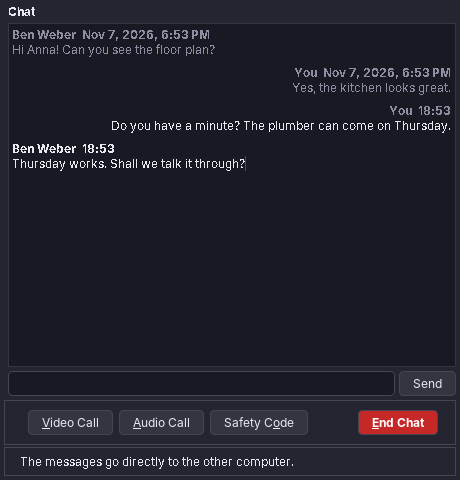
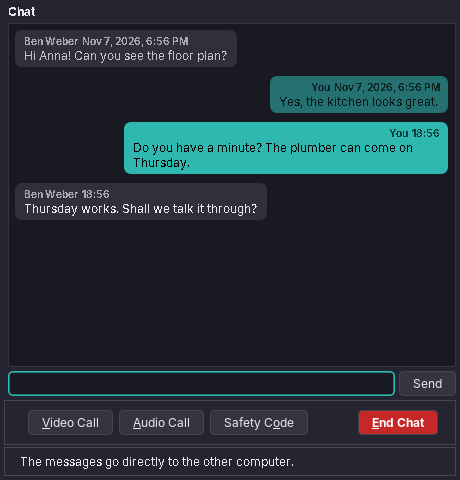
feat: chat lines as rounded bubbles in the accent colour
Mine on the right in the theme's accent (selection) colour, theirs on the
left in a shade of the field colour; kept lines from earlier calls
lighter and with the date. The bubble is as wide as its text, at most
three quarters of the chat.

Claude-Session: https://claude.ai/code/session_017Pd6NYUZ8z2gAjpLkJrfhb

diff --git a/src/main/java/eu/amadeos/apps/call/ui/call/ChatPanel.java b/src/main/java/eu/amadeos/apps/call/ui/call/ChatPanel.java
@@ -3,43 +3,58 @@ package eu.amadeos.apps.call.ui.call;
 import eu.amadeos.apps.call.domain.ChatLine;
 import eu.amadeos.commons.i18n.Messages;
 import eu.amadeos.commons.swing.AmadeUI;
+import eu.amadeos.commons.theme.DesktopTheme;
 
 import javax.swing.BorderFactory;
+import javax.swing.Box;
+import javax.swing.BoxLayout;
 import javax.swing.JButton;
+import javax.swing.JComponent;
 import javax.swing.JLabel;
 import javax.swing.JPanel;
 import javax.swing.JScrollPane;
+import javax.swing.JTextArea;
 import javax.swing.JTextField;
-import javax.swing.JTextPane;
-import javax.swing.text.BadLocationException;
-import javax.swing.text.SimpleAttributeSet;
-import javax.swing.text.StyleConstants;
-import javax.swing.text.StyledDocument;
+import javax.swing.JViewport;
+import javax.swing.Scrollable;
+import javax.swing.SwingConstants;
+import javax.swing.SwingUtilities;
 import java.awt.BorderLayout;
+import java.awt.Color;
+import java.awt.Component;
 import java.awt.Dimension;
 import java.awt.Font;
+import java.awt.FontMetrics;
+import java.awt.Graphics;
+import java.awt.Graphics2D;
+import java.awt.Insets;
+import java.awt.Rectangle;
+import java.awt.RenderingHints;
 import java.time.ZoneId;
 import java.time.format.DateTimeFormatter;
 import java.time.format.FormatStyle;
 import java.util.ArrayList;
 import java.util.List;
 import java.util.function.Consumer;
+import java.util.stream.Collectors;
 
-/** The chat beside the picture: the lines of both sides and a field to write. */
+/**
+ * The chat: the lines of both sides as rounded bubbles, like in a messenger (mine on the right in the accent
+ * colour of the theme, theirs on the left), and a field to write. Kept lines from earlier calls come first, dimmed
+ * and with the date.
+ */
 final class ChatPanel extends JPanel {
     private static final DateTimeFormatter TIME = DateTimeFormatter.ofPattern("HH:mm");
     private static final DateTimeFormatter DAY_AND_TIME =
             DateTimeFormatter.ofLocalizedDateTime(FormatStyle.MEDIUM, FormatStyle.SHORT);
 
-    private final JTextPane lines = new JTextPane();
+    private final Lines lines = new Lines();
+    private final JScrollPane scroll;
     private final JTextField input = new JTextField();
     private final Messages msg;
     private final String peer;
-    private int count;
-    /** Lines in the text so far, earlier and of this call. */
-    private int written;
-    private int historyLines;
     private final List<ChatLine> current = new ArrayList<>();
+    private List<ChatLine> history = List.of();
 
     ChatPanel(Messages msg, String peer, Consumer<String> send) {
         super(new BorderLayout(0, 4));
@@ -47,10 +62,12 @@ final class ChatPanel extends JPanel {
         this.peer = peer;
         setName("chat");
         setBorder(BorderFactory.createEmptyBorder(0, 4, 0, 0));
-        lines.setEditable(false);
         lines.setName("chat.lines");
-        JScrollPane scroll = new JScrollPane(lines);
-        scroll.setPreferredSize(new Dimension(Math.round(240 * AmadeUI.fontScale()), 200));
+        scroll = new JScrollPane(lines, JScrollPane.VERTICAL_SCROLLBAR_AS_NEEDED,
+                JScrollPane.HORIZONTAL_SCROLLBAR_NEVER);
+        scroll.setPreferredSize(new Dimension(Math.round(260 * AmadeUI.fontScale()), 200));
+        scroll.getVerticalScrollBar().setUnitIncrement(Math.round(16 * AmadeUI.fontScale()));
+        scroll.getViewport().setBackground(AmadeUI.theme().fieldBackground());
         JLabel title = new JLabel(msg.get("chat.title"));
         title.setFont(title.getFont().deriveFont(Font.BOLD));
         add(title, BorderLayout.NORTH);
@@ -74,59 +91,31 @@ final class ChatPanel extends JPanel {
 
     void add(ChatLine line) {
         current.add(line);
-        write(line, false);
-        count++;
-        lines.setCaretPosition(lines.getStyledDocument().getLength());
+        lines.add(bubble(line, false));
+        refresh();
     }
 
     /** The kept chat from earlier calls, dimmed and with the date, above the lines of this call. */
     void setHistory(List<ChatLine> earlier) {
-        StyledDocument doc = lines.getStyledDocument();
-        try {
-            doc.remove(0, doc.getLength());
-        } catch (BadLocationException e) {
-            throw new IllegalStateException(e);
-        }
-        written = 0;
-        for (ChatLine line : earlier) write(line, true);
-        historyLines = earlier.size();
-        for (ChatLine line : current) write(line, false);
-        lines.setCaretPosition(doc.getLength());
+        history = List.copyOf(earlier);
+        lines.removeAll();
+        for (ChatLine line : history) lines.add(bubble(line, true));
+        for (ChatLine line : current) lines.add(bubble(line, false));
+        refresh();
     }
 
-    private void write(ChatLine line, boolean earlier) {
-        StyledDocument doc = lines.getStyledDocument();
-        SimpleAttributeSet head = new SimpleAttributeSet();
-        StyleConstants.setBold(head, true);
-        StyleConstants.setForeground(head, line.mine() || earlier ? AmadeUI.theme().textInactive() : lines.getForeground());
-        SimpleAttributeSet body = new SimpleAttributeSet();
-        if (earlier) StyleConstants.setForeground(body, AmadeUI.theme().textInactive());
-        // Like a messenger: my lines on the right, theirs on the left, with room between messages.
-        SimpleAttributeSet paragraph = new SimpleAttributeSet();
-        StyleConstants.setAlignment(paragraph, line.mine() ? StyleConstants.ALIGN_RIGHT : StyleConstants.ALIGN_LEFT);
-        float gap = 8 * AmadeUI.fontScale();
-        float side = 36 * AmadeUI.fontScale();
-        StyleConstants.setLeftIndent(paragraph, line.mine() ? side : 0);
-        StyleConstants.setRightIndent(paragraph, line.mine() ? 0 : side);
-        try {
-            String who = line.mine() ? msg.get("chat.me") : peer;
-            DateTimeFormatter when = earlier ? DAY_AND_TIME.withLocale(msg.locale()) : TIME;
-            boolean first = written++ == 0;
-            if (!first) doc.insertString(doc.getLength(), "\n", null);
-            int start = doc.getLength();
-            doc.insertString(start, who + "  " + when.format(line.at().atZone(ZoneId.systemDefault())) + "\n", head);
-            doc.insertString(doc.getLength(), line.text(), body);
-            SimpleAttributeSet top = new SimpleAttributeSet(paragraph);
-            StyleConstants.setSpaceAbove(top, first ? 0 : gap);
-            doc.setParagraphAttributes(start, 1, top, false);
-            doc.setParagraphAttributes(start + 1, doc.getLength() - start - 1, paragraph, false);
-        } catch (BadLocationException e) {
-            throw new IllegalStateException(e);
-        }
+    private void refresh() {
+        lines.revalidate();
+        lines.repaint();
+        // To the newest line once the layout knows the height.
+        SwingUtilities.invokeLater(() -> lines.scrollRectToVisible(new Rectangle(0, lines.getHeight() - 1, 1, 1)));
     }
 
-    int historyLines() {
-        return historyLines;
+    private JComponent bubble(ChatLine line, boolean earlier) {
+        String who = line.mine() ? msg.get("chat.me") : peer;
+        DateTimeFormatter when = earlier ? DAY_AND_TIME.withLocale(msg.locale()) : TIME;
+        return new Bubble(who + "  " + when.format(line.at().atZone(ZoneId.systemDefault())), line.text(),
+                line.mine(), earlier);
     }
 
     void focusInput() {
@@ -134,14 +123,185 @@ final class ChatPanel extends JPanel {
     }
 
     int lineCount() {
-        return count;
+        return current.size();
     }
 
+    int historyLines() {
+        return history.size();
+    }
+
+    /** All lines as plain text, earlier first, for tests. */
     String text() {
-        return lines.getText();
+        return java.util.stream.Stream.concat(history.stream(), current.stream()).map(ChatLine::text)
+                .collect(Collectors.joining("\n"));
     }
 
     JTextField input() {
         return input;
+    }
+
+    // ---------------------------------------------------------------- the list of bubbles
+
+    /** The bubbles from top to bottom, as wide as the visible part of the scroll pane. */
+    private final class Lines extends JPanel implements Scrollable {
+        Lines() {
+            setLayout(new BoxLayout(this, BoxLayout.Y_AXIS));
+            setBorder(BorderFactory.createEmptyBorder(6, 6, 6, 6));
+            setBackground(AmadeUI.theme().fieldBackground());
+        }
+
+        @Override
+        public Component add(Component c) {
+            if (getComponentCount() > 0) super.add(Box.createVerticalStrut(Math.round(8 * AmadeUI.fontScale())));
+            return super.add(c);
+        }
+
+        @Override
+        public Dimension getPreferredScrollableViewportSize() {
+            return getPreferredSize();
+        }
+
+        @Override
+        public int getScrollableUnitIncrement(Rectangle visible, int orientation, int direction) {
+            return Math.round(16 * AmadeUI.fontScale());
+        }
+
+        @Override
+        public int getScrollableBlockIncrement(Rectangle visible, int orientation, int direction) {
+            return visible.height - 16;
+        }
+
+        @Override
+        public boolean getScrollableTracksViewportWidth() {
+            return true;
+        }
+
+        @Override
+        public boolean getScrollableTracksViewportHeight() {
+            return getParent() instanceof JViewport v && getPreferredSize().height < v.getHeight();
+        }
+    }
+
+    /** One message: a rounded box with who and when on top and the text below, on its side of the chat. */
+    private final class Bubble extends JPanel {
+        private final JLabel head;
+        private final JTextArea text;
+        private final boolean mine;
+        private final boolean earlier;
+        private final Color fill;
+
+        Bubble(String headText, String body, boolean mine, boolean earlier) {
+            super(null);
+            this.mine = mine;
+            this.earlier = earlier;
+            setOpaque(false);
+            setName(mine ? "chat.mine" : "chat.theirs");
+            DesktopTheme t = AmadeUI.theme();
+            Color background = t.fieldBackground();
+            Color accent = t.selectionBackground();
+            Color foreground;
+            if (mine) {
+                fill = earlier ? mix(accent, background, 0.45f) : accent;
+                foreground = t.selectionText();
+            } else {
+                fill = t.isDark() ? mix(background, Color.WHITE, 0.10f) : mix(background, Color.BLACK, 0.07f);
+                foreground = t.fieldText();
+            }
+            Color dim = mix(foreground, fill, 0.35f);
+            head = new JLabel(headText);
+            head.setFont(head.getFont().deriveFont(Font.BOLD, head.getFont().getSize2D() * 0.85f));
+            head.setForeground(dim);
+            head.setHorizontalAlignment(mine ? SwingConstants.RIGHT : SwingConstants.LEFT);
+            text = new JTextArea(body);
+            text.setName("chat.text");
+            text.setEditable(false);
+            text.setLineWrap(true);
+            text.setWrapStyleWord(true);
+            text.setOpaque(false);
+            text.setBorder(null);
+            text.setFont(new JLabel().getFont());
+            text.setForeground(earlier ? mix(foreground, fill, 0.2f) : foreground);
+            text.setSelectedTextColor(foreground);
+            add(head);
+            add(text);
+        }
+
+        private Insets pad() {
+            int v = Math.round(5 * AmadeUI.fontScale());
+            int h = Math.round(9 * AmadeUI.fontScale());
+            return new Insets(v, h, v, h);
+        }
+
+        /** The width of the box: as wide as the text needs, at most three quarters of the chat. */
+        private int boxWidth(int available) {
+            Insets p = pad();
+            FontMetrics fm = text.getFontMetrics(text.getFont());
+            int widest = head.getPreferredSize().width;
+            for (String l : text.getText().split("\n", -1)) widest = Math.max(widest, fm.stringWidth(l) + 2);
+            int max = Math.max(Math.round(80 * AmadeUI.fontScale()), available * 3 / 4);
+            return Math.min(widest + p.left + p.right, max);
+        }
+
+        private int boxHeight(int width) {
+            Insets p = pad();
+            int inner = width - p.left - p.right;
+            text.setSize(inner, Short.MAX_VALUE);
+            return p.top + head.getPreferredSize().height + text.getPreferredSize().height + p.bottom;
+        }
+
+        private int available() {
+            java.awt.Container parent = getParent();
+            int w = parent == null ? 0 : parent.getWidth() - parent.getInsets().left - parent.getInsets().right;
+            return w > 0 ? w : Math.round(260 * AmadeUI.fontScale());
+        }
+
+        @Override
+        public Dimension getPreferredSize() {
+            int width = available();
+            return new Dimension(width, boxHeight(boxWidth(width)));
+        }
+
+        @Override
+        public Dimension getMaximumSize() {
+            return new Dimension(Integer.MAX_VALUE, getPreferredSize().height);
+        }
+
+        @Override
+        public float getAlignmentX() {
+            return LEFT_ALIGNMENT;
+        }
+
+        private Rectangle box() {
+            int w = boxWidth(getWidth());
+            return new Rectangle(mine ? getWidth() - w : 0, 0, w, boxHeight(w));
+        }
+
+        @Override
+        public void doLayout() {
+            Rectangle b = box();
+            Insets p = pad();
+            int headHeight = head.getPreferredSize().height;
+            head.setBounds(b.x + p.left, p.top, b.width - p.left - p.right, headHeight);
+            text.setBounds(b.x + p.left, p.top + headHeight, b.width - p.left - p.right,
+                    b.height - p.top - p.bottom - headHeight);
+        }
+
+        @Override
+        protected void paintComponent(Graphics g) {
+            Graphics2D g2 = (Graphics2D) g.create();
+            g2.setRenderingHint(RenderingHints.KEY_ANTIALIASING, RenderingHints.VALUE_ANTIALIAS_ON);
+            Rectangle b = box();
+            int arc = Math.round(14 * AmadeUI.fontScale());
+            g2.setColor(fill);
+            g2.fillRoundRect(b.x, b.y, b.width - 1, b.height - 1, arc, arc);
+            g2.dispose();
+        }
+    }
+
+    private static Color mix(Color a, Color b, float amountOfB) {
+        float k = 1 - amountOfB;
+        return new Color(Math.round(a.getRed() * k + b.getRed() * amountOfB),
+                Math.round(a.getGreen() * k + b.getGreen() * amountOfB),
+                Math.round(a.getBlue() * k + b.getBlue() * amountOfB));
     }
 }

diff --git a/src/test/java/eu/amadeos/apps/call/ui/main/MainWindowTest.java b/src/test/java/eu/amadeos/apps/call/ui/main/MainWindowTest.java
@@ -114,7 +114,7 @@ class MainWindowTest {
         until("Ben active", () -> ben.lastWindow().active);
         ben.on(() -> ben.presenter.sendChat("Hallo Anna"));
         until("chat shown", () -> onEdt(() -> this.<Component>find(call, "chat").isShowing()
-                && this.<javax.swing.text.JTextComponent>find(call, "chat.lines").getText().contains("Hallo Anna")));
+                && call.chatPanelText().contains("Hallo Anna")));
         OnEdt.run(() -> {
             JTextField input = find(call, "chat.input");
             input.setText("Hallo Ben");

diff --git a/src/main/java/eu/amadeos/apps/call/ui/call/CallWindow.java b/src/main/java/eu/amadeos/apps/call/ui/call/CallWindow.java
@@ -376,6 +376,11 @@ public final class CallWindow extends JFrame implements CallView {
         return picture;
     }
 
+    /** The chat as plain text, for tests. */
+    public String chatPanelText() {
+        return chat.text();
+    }
+
     ChatPanel chatPanel() {
         return chat;
     }
